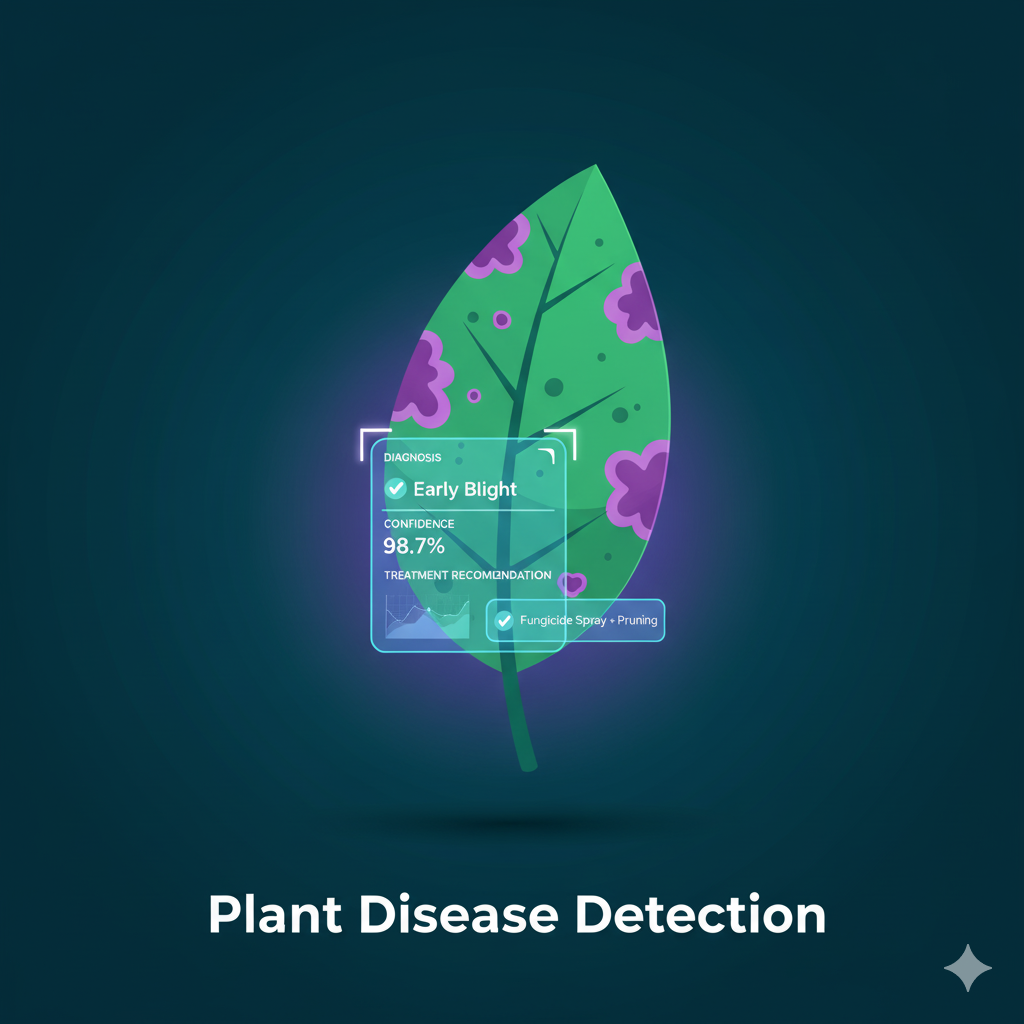
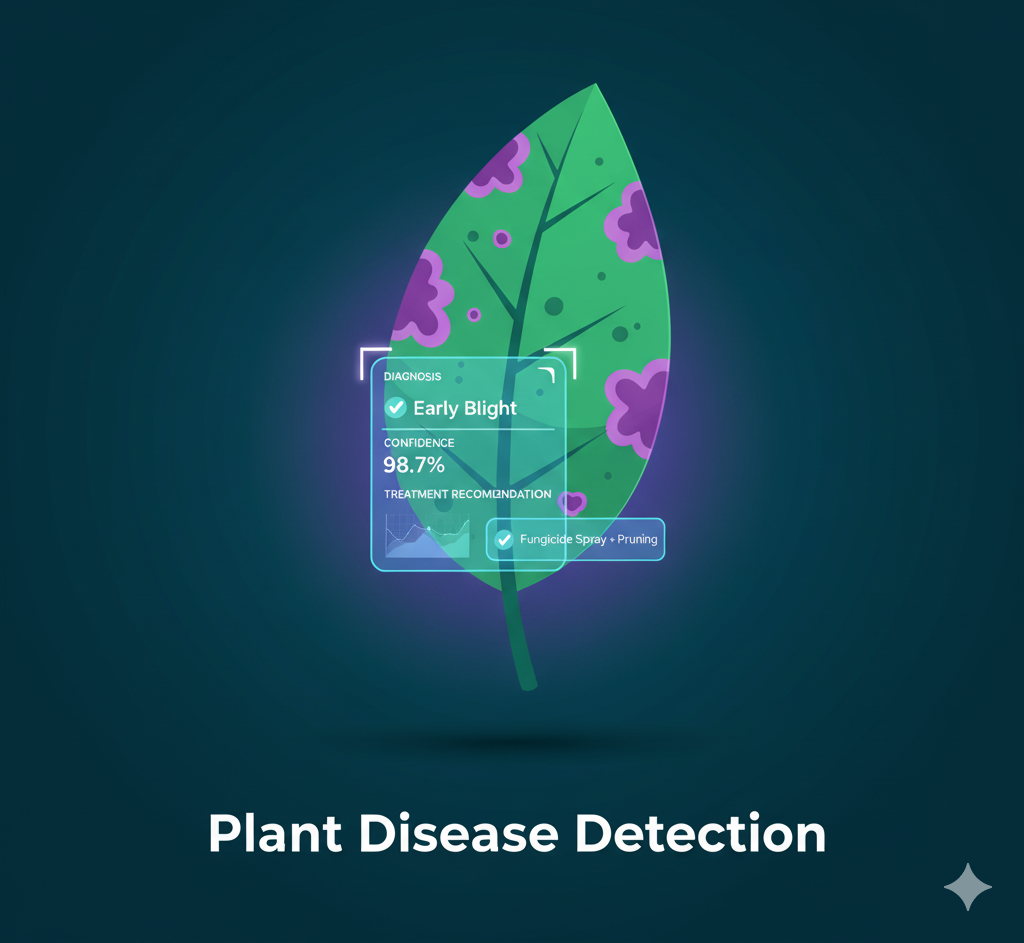
Updadatd send message succ

Changed region(s): [[0.3438, 0.0923, 0.6562, 0.7688], [0.1875, 0.8611, 0.8125, 0.9226], [0.9062, 0.9226, 0.9688, 0.9533]]

diff --git a/src/app/contact/contact.component.scss b/src/app/contact/contact.component.scss
@@ -1,6 +1,6 @@
 @keyframes spin {
-  0% { transform: rotate(0deg); }
-  100% { transform: rotate(360deg); }
+  from { transform: rotate(0deg); }
+  to { transform: rotate(360deg); }
 }
 
 .contact-container {
@@ -16,7 +16,7 @@
     
     h2 {
       font-size: 2.5rem;
-      color: white; // Changed from #1f2937 to white
+      color: white;
       margin-bottom: 1rem;
     }
     
@@ -28,7 +28,7 @@
     }
     
     p {
-      color: #d1d5db; // Changed from #4b5563 to a lighter gray
+      color: #d1d5db;
       font-size: 1.1rem;
     }
   }
@@ -45,7 +45,7 @@
     }
 
     .contact-form {
-      background: #1f2937; // Changed from white to a dark gray
+      background: #1f2937;
       padding: 2rem;
       border-radius: 8px;
       box-shadow: 0 4px 6px rgba(0,0,0,0.05);
@@ -57,15 +57,15 @@
           display: block;
           margin-bottom: 0.5rem;
           font-weight: 500;
-          color: white; // Changed from #1f2937 to white
+          color: white;
         }
         
         input, textarea {
           width: 100%;
           padding: 0.75rem;
-          border: 1px solid #374151; // Changed from #d1d5db to a darker gray
-          background-color: #2d3748; // Added a darker color for input background
-          color: white; // Added white color for input text
+          border: 1px solid #374151;
+          background-color: #2d3748;
+          color: white;
           border-radius: 4px;
           font-size: 1rem;
           transition: border-color 0.3s ease;
@@ -155,21 +155,14 @@
           transform: translateY(-5px);
         }
         
-        .icon-wrapper {
+        /* Icon styles (kept exactly as specified) */
+        .contact-icon {
           width: 50px;
           height: 50px;
-          background: linear-gradient(135deg, #8b5cf6, #3b82f6);
           border-radius: 50%;
-          display: flex;
-          align-items: center;
-          justify-content: center;
+        
           margin-bottom: 1rem;
-          
-          .contact-icon {
-            width: 24px;
-            height: 24px;
-            filter: invert(1);
-          }
+          display: block;
         }
         
         h3 {
@@ -208,6 +201,7 @@
     }
   }
   
+  /* Styling for Success Message */
   .success-message {
     position: fixed;
     bottom: 2rem;
@@ -219,16 +213,33 @@
     border-radius: 4px;
     box-shadow: 0 4px 6px rgba(0,0,0,0.1);
     animation: fadeInUp 0.5s ease forwards;
-    
-    @keyframes fadeInUp {
-      from {
-        opacity: 0;
-        transform: translate(-50%, 20px);
-      }
-      to {
-        opacity: 1;
-        transform: translate(-50%, 0);
-      }
+    z-index: 100;
+  }
+
+  /* Styling for Error Message (New) */
+  .error-message-box {
+    position: fixed;
+    bottom: 2rem;
+    left: 50%;
+    transform: translateX(-50%);
+    background: #ef4444; /* Red color for error */
+    color: white;
+    padding: 1rem 2rem;
+    border-radius: 4px;
+    box-shadow: 0 4px 6px rgba(0,0,0,0.1);
+    animation: fadeInUp 0.5s ease forwards;
+    z-index: 99;
+  }
+  
+  /* Animation Keyframes */
+  @keyframes fadeInUp {
+    from {
+      opacity: 0;
+      transform: translate(-50%, 20px);
+    }
+    to {
+      opacity: 1;
+      transform: translate(-50%, 0);
     }
   }
 }

diff --git a/src/app/contact/contact.component.html b/src/app/contact/contact.component.html
@@ -59,27 +59,27 @@
 
     <div class="contact-info">
       <div class="info-card" #infoCard>
-        <div class="icon-wrapper">
-          <img src="https://placehold.co/40" alt="Email icon" class="contact-icon">
-        </div>
+        
+        <img src="assets/gmail.png" alt="Email icon" class="contact-icon">
+        
         <h3>Email Me</h3>
         <p>rajrrv6&#64;gmail.com</p>
         <a href="mailto:rajrrv6&#64;gmail.com">Send Email</a>
       </div>
 
       <div class="info-card" #infoCard>
-        <div class="icon-wrapper">
-          <img src="https://placehold.co/40" alt="Phone icon" class="contact-icon">
-        </div>
+
+        <img src="assets/phone.png" alt="Phone icon" class="contact-icon">
+
         <h3>Call Me</h3>
         <p>+91 79039 81484</p>
         <a href="tel:+917903981484">Call Now</a>
       </div>
 
       <div class="info-card" #infoCard>
-        <div class="icon-wrapper">
-          <img src="https://placehold.co/40" alt="Location icon" class="contact-icon">
-        </div>
+    
+        <img src="assets/findMe.png" alt="Location icon" class="contact-icon">
+        
         <h3>Find Me</h3>
         <p>Muzaffarpur, Bihar, India</p>
         <a href="#" target="_blank">View on Map</a>
@@ -87,7 +87,13 @@
     </div>
   </div>
 
+  <!-- Success Message (Shows "Thank you! Your message has been sent successfully.") -->
   <div *ngIf="isSubmitted" class="success-message">
     <p>Thank you! Your message has been sent successfully.</p>
+  </div>
+  
+  <!-- Error Message (Shows if submission fails) -->
+  <div *ngIf="isError" class="error-message-box">
+    <p>Failed to send message. Please check your credentials or network connection.</p>
   </div>
 </div>

diff --git a/src/app/contact/contact.component.ts b/src/app/contact/contact.component.ts
@@ -23,6 +23,7 @@ export class ContactComponent implements AfterViewInit {
   
   isSubmitted = false;
   isLoading = false;
+  isError = false; // Added new state for error handling
 
   constructor(private animations: AnimationsService) {}
 
@@ -34,6 +35,8 @@ export class ContactComponent implements AfterViewInit {
   async onSubmit() {
     if (this.contactForm.invalid) return;
 
+    // Reset feedback states
+    this.isError = false; 
     this.isLoading = true;
 
     try {
@@ -53,10 +56,15 @@ export class ContactComponent implements AfterViewInit {
       console.log('Email sent successfully:', response);
       this.isSubmitted = true;
       this.contactForm.reset();
-      setTimeout(() => (this.isSubmitted = false), 3000);
+      // Use requestAnimationFrame before timeout to ensure UI update
+      requestAnimationFrame(() => {
+        setTimeout(() => (this.isSubmitted = false), 3000);
+      });
+      
     } catch (error) {
       console.error('Failed to send email:', error);
-      alert('Could not send message. Please try again.');
+      this.isError = true; // Set error state on failure
+      setTimeout(() => (this.isError = false), 5000);
     } finally {
       this.isLoading = false;
     }

diff --git a/src/app/about/about.component.ts b/src/app/about/about.component.ts
@@ -21,12 +21,12 @@ export class AboutComponent implements AfterViewInit {
     this.animations.animateElements(this.detailItems.toArray(), { delay: 0.5 });
     this.animations.animateElements(this.timelineItemsQuery.toArray(), { delay: 0.7 });
   }
-  
+
   personalDetails = [
-    { icon: '雌', title: 'Education', value: 'B.Tech in Computer Science & Engineering' },
-    { icon: '将', title: 'University', value: 'Centurion University of Technology and Management Odisha' },
-    { icon: '桃', title: 'Location', value: 'Muzaffarpur, Bihar, India' },
-    { icon: '捗', title: 'Focus', value: 'Full Stack Development' }
+    { icon: 'assets/Education_logo.jpg', alt: 'Education icon', title: 'Education', value: 'B.Tech in Computer Science & Engineering' },
+    { icon: 'assets/cutm.png', alt: 'University icon', title: 'University', value: 'Centurion University of Technology and Management Odisha' },
+    { icon: 'assets/findMe.png', alt: 'Location icon', title: 'Location', value: 'Muzaffarpur, Bihar, India' },
+    { icon: 'assets/fullStack.jpg', alt: 'Focus icon', title: 'Focus', value: 'Full Stack Development' }
   ];
 
   timelineItems = [

diff --git a/src/app/projects/projects.component.ts b/src/app/projects/projects.component.ts
@@ -32,7 +32,7 @@ projects = [
     title: 'Plant Disease Detection',
     description: 'AI-powered system to detect plant leaf diseases using Machine Learning.',
     tags: ['AI', 'CNN', 'Angular'],
-    image: 'assets/plant_disease_detection.png',
+    image: 'assets/plant_disease_detection2.png',
     demo: '#',
     code: '#'
   },
@@ -56,7 +56,7 @@ projects = [
       title: 'E-Commerce Analytics Dashboard',
       description: 'Real-time sales analytics platform for e-commerce businesses',
       tags: ['Angular', 'D3.js', 'Firebase', 'Chart.js'],
-      image: 'assets/E-commerce_Website.png',
+      image: 'assets/e_com.png',
       demo: '#',
       code: '#'
     },

diff --git a/src/app/about/about.component.scss b/src/app/about/about.component.scss
@@ -86,16 +86,17 @@
           border-radius: 8px;
           box-shadow: 0 2px 5px rgba(0,0,0,0.05);
           transition: transform 0.3s ease;
+          align-items: center;
           
           &:hover {
             transform: translateY(-5px);
           }
           
-          .detail-icon {
+          .detail-icon-img {
             width: 45px;
             height: 45px;
-            background-color: #374151; // Changed from #f3f4f6 to a darker gray
             border-radius: 50%;
+            background-color: #374151; // Changed from #f3f4f6 to a darker gray
             display: flex;
             align-items: center;
             justify-content: center;

diff --git a/src/app/app.component.html b/src/app/app.component.html
@@ -21,7 +21,7 @@
 <footer class="footer">
   <p>&copy; 2024 BTech CSE Portfolio. All rights reserved.</p>
   <div class="socials">
-    <a href="https://github.com/username" target="_blank" rel="noopener">GitHub</a>
-    <a href="https://linkedin.com/in/username" target="_blank" rel="noopener">LinkedIn</a>
+    <a href="https://github.com/rajrrv6" target="_blank" rel="noopener">GitHub</a>
+    <a href="https://linkedin.com/in/rajrrv6" target="_blank" rel="noopener">LinkedIn</a>
   </div>
 </footer>

diff --git a/src/app/about/about.component.html b/src/app/about/about.component.html
@@ -19,7 +19,7 @@
 
       <div class="details-grid">
         <div *ngFor="let detail of personalDetails" class="detail-item" #detailItem>
-          <div class="detail-icon">{{detail.icon}}</div>
+          <img [src]="detail.icon" [alt]="detail.alt" class="detail-icon-img">
           <div class="detail-text">
             <h4>{{detail.title}}</h4>
             <p>{{detail.value}}</p>

diff --git a/src/app/home/home.component.html b/src/app/home/home.component.html
@@ -14,7 +14,7 @@
     </div>
 
     <div class="hero-image">
-      <img src="assets/chandan.png" alt="Profile Photo">
+      <img src="assets/chandan2.png" alt="Profile Photo">
     </div>
   </div>
 </div>
